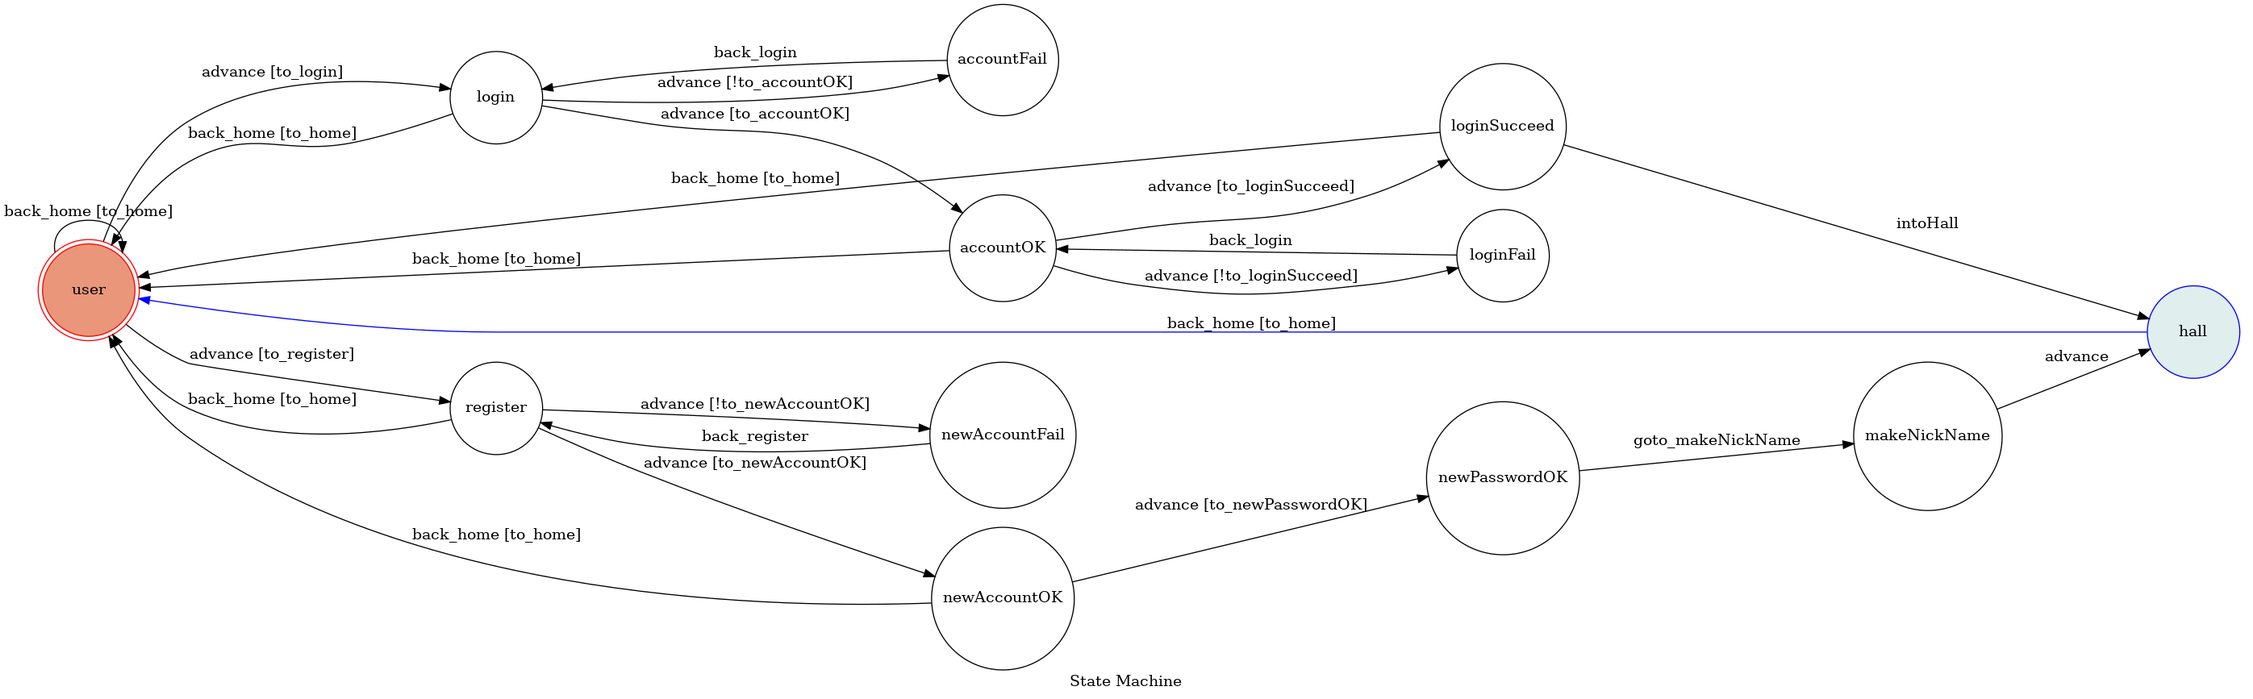
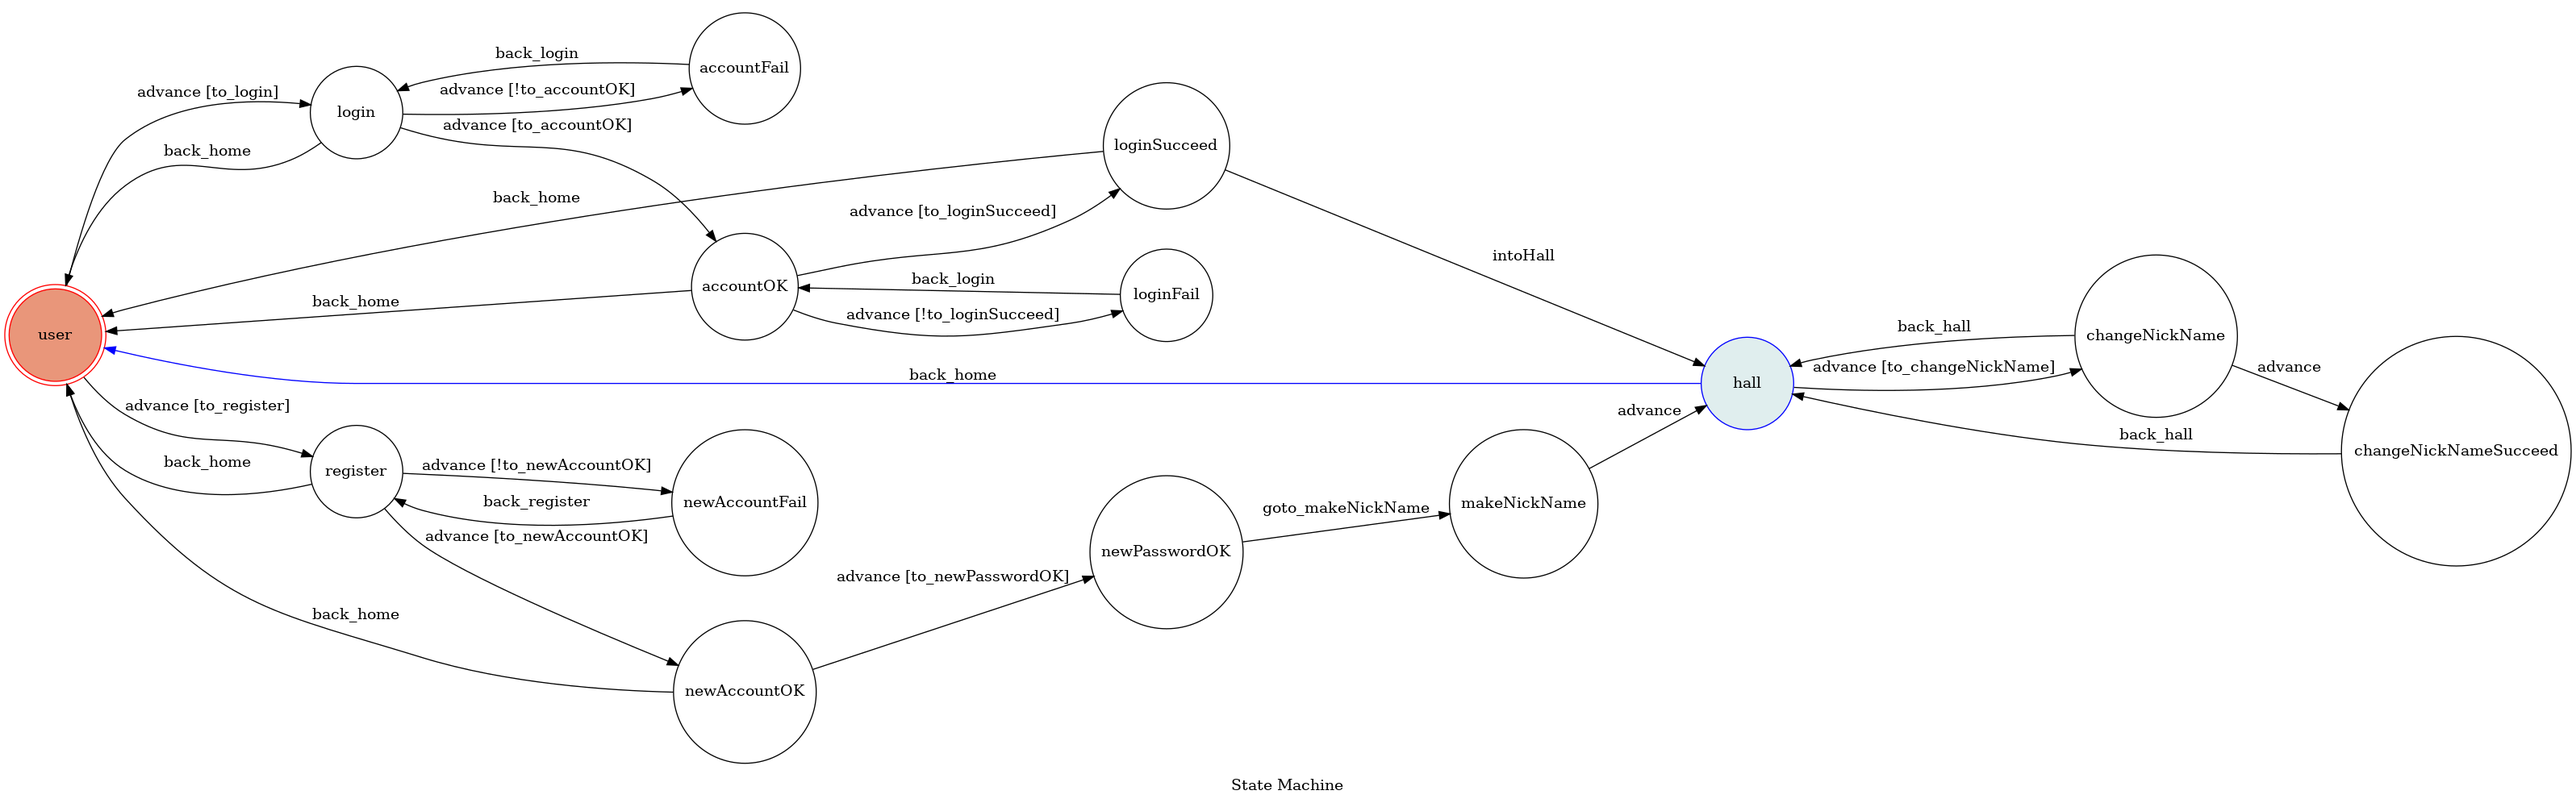
change nickname

diff --git a/fsm.py b/fsm.py
@@ -16,11 +16,6 @@ class TocMachine(GraphMachine):
 
 #----------------------------------------------------------------#
 
-    def to_home(self):
-        if self.state == 'user':
-            return False
-        self.account = ""
-        return True
 
     def to_login(self, event):
         if event.get("message"):
@@ -72,11 +67,26 @@ class TocMachine(GraphMachine):
             db = self.accessDB()
             db.updateNickName(self.account, nickname)
 
+    def to_changeNickName(self, event):
+        if event.get("message"):
+            text = event['message']['text']
+            return text.lower() == 'change nickname'
+
+    def change_nickname(self, event) :
+        if event.get("message"):
+            nickname = event['message']['text']
+            db = self.accessDB()
+            db.updateNickName(self.account, nickname)
+            self.nickname = nickname
+
 
 #----------------------------------------------------------------#
 
-    def on_enter_user(self):
-        print("I'm starting form initial state!")
+    def on_enter_user(self, event):
+        self.account = ""
+        self.nickname = ""
+        sender_id = event['sender']['id']
+        send_text_message(sender_id, "Back To HOME~")
 
     def on_enter_login(self, event):
         print("I'm login...")
@@ -129,7 +139,18 @@ class TocMachine(GraphMachine):
         responese = send_image_url(sender_id, "https://i.imgur.com/YH8h4dY.png")
         db = self.accessDB()
         self.nickname = db.getNickName(self.account)
-        responese = send_text_message(sender_id, self.nickname + ", welcome to the hall :D") 
+        responese = send_text_message(sender_id, self.nickname + ", welcome to the hall :D")
+
+    def on_enter_changeNickName(self, event) :
+        sender_id = event['sender']['id']
+        msg = "your nickname is : \" %s \",\nPlease input a new nickname :" % (self.nickname)
+        responese = send_text_message(sender_id, msg)
+
+    def on_enter_changeNickNameSucceed(self, event) :
+        sender_id = event['sender']['id']
+        msg = "your new nickname is : \" %s \""% (self.nickname)
+        responese = send_text_message(sender_id, msg)
+        self.back_hall(event)
 
 
 #----------------------------------------------------------------#

diff --git a/app.py b/app.py
@@ -18,13 +18,14 @@ machine = TocMachine(
         'newAccountFail',
         'newPasswordOK',
         'makeNickName',
-        'hall'
+        'hall',
+        'changeNickName',
+        'changeNickNameSucceed',
     ],
     transitions=[
         {
             'trigger': 'back_home',
             'source': [
-                'user',
                 'login',
                 'accountOK',
                 'loginSucceed',
@@ -33,7 +34,27 @@ machine = TocMachine(
                 'hall'
             ],
             'dest':'user',
-            'conditions':'to_home'
+        },
+        {
+            'trigger' : 'back_hall',
+            'source' : [
+                'changeNickName',
+                'changeNickNameSucceed',
+            ],
+            'dest' : 'hall'
+        },
+        #-- change nickname -----------
+        {
+            'trigger' : 'advance',
+            'source' : 'hall',
+            'dest' : 'changeNickName',
+            'conditions' : 'to_changeNickName'
+        },
+        {
+            'trigger' : 'advance',
+            'source' : 'changeNickName',
+            'dest' : 'changeNickNameSucceed',
+            'before' : 'change_nickname'
         },
         #-- login ---------------------
         {
@@ -170,8 +191,9 @@ def webhook_handler():
                 msg = "Hi, %s (%s)" % (machine.nickname, machine.account)
                 send_text_message(sender_id, msg)
         elif text.lower() == '!home':
-            machine.back_home()
-            send_text_message(sender_id, "Back To HOME~")
+            machine.back_home(event)
+        elif text.lower() == '!hall' :
+            machine.back_hall(event)
         else:
             machine.advance(event)
 
